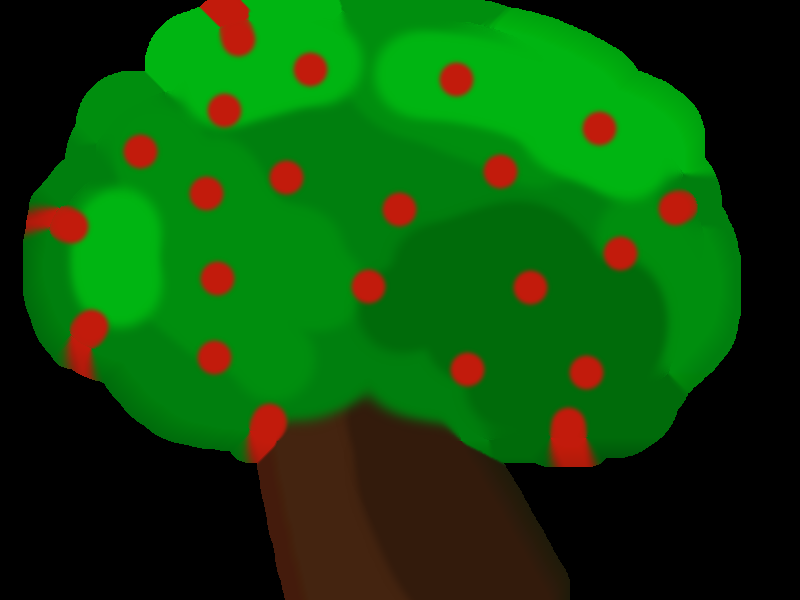
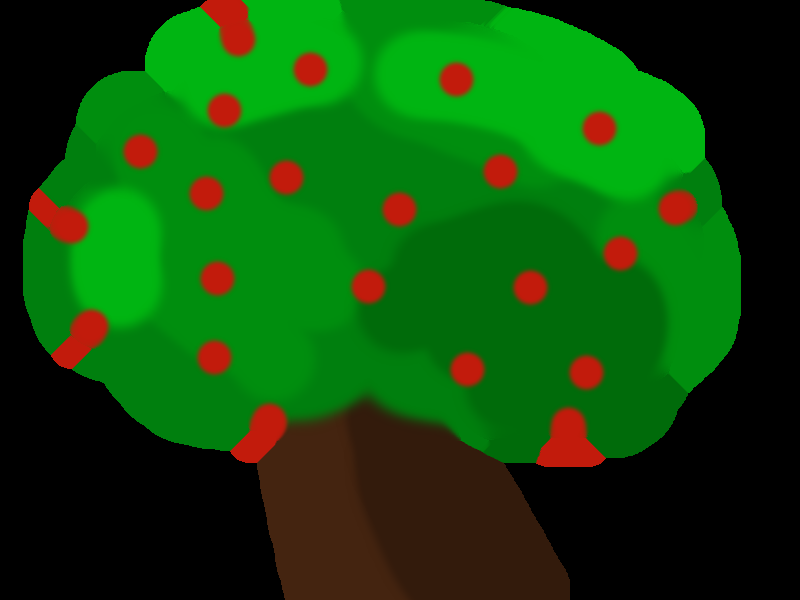
Fix neighbor sampling (#1)
* Fix neighbor sampling

* Fix images

* Use usize for thickness

diff --git a/src/alpha_bleed.rs b/src/alpha_bleed.rs
@@ -12,7 +12,7 @@ const NEIGHBOR_OFFSETS: [(i32, i32); 8] = [
     (1, 1),
 ];
 
-pub fn alpha_bleed(image: &mut RgbaImage, thickness: u32) {
+pub fn alpha_bleed(image: &mut RgbaImage, thickness: usize) {
     let (width, height) = image.dimensions();
 
     let mut visited = vec![false; (width * height) as usize];
@@ -61,13 +61,14 @@ pub fn alpha_bleed(image: &mut RgbaImage, thickness: u32) {
         }
     }
 
-    let mut loop_count: u32 = 0;
-    let mut cycle_length = pixel_queue.len();
-    loop {
-        loop_count += 1;
+    for _ in 0..thickness {
+        let queue_length = pixel_queue.len();
+        if queue_length == 0 {
+            break;
+        }
 
-        let mut next_cycle_length = 0;
-        for _ in 0..cycle_length {
+        let mut mutated_pixels: Vec<usize> = vec![0; queue_length];
+        for _ in 0..queue_length {
             if let Some((x, y)) = pixel_queue.pop_front() {
                 let flat_index = (y * width + x) as usize;
 
@@ -80,17 +81,14 @@ pub fn alpha_bleed(image: &mut RgbaImage, thickness: u32) {
                     if can_sample[flat_neighbor_index] {
                         let neighbor_pixel = image.get_pixel(x_neighbor, y_neighbor);
 
-                        if loop_count <= thickness {
-                            color.0 += neighbor_pixel[0] as u16;
-                            color.1 += neighbor_pixel[1] as u16;
-                            color.2 += neighbor_pixel[2] as u16;
+                        color.0 += neighbor_pixel[0] as u16;
+                        color.1 += neighbor_pixel[1] as u16;
+                        color.2 += neighbor_pixel[2] as u16;
 
-                            contributing += 1;
-                        }
+                        contributing += 1;
                     } else if !visited[flat_neighbor_index] {
                         visited[flat_neighbor_index] = true;
                         pixel_queue.push_back((x_neighbor, y_neighbor));
-                        next_cycle_length += 1;
                     }
                 }
 
@@ -103,15 +101,15 @@ pub fn alpha_bleed(image: &mut RgbaImage, thickness: u32) {
                 ]);
 
                 image.put_pixel(x, y, new_pixel);
-                can_sample[flat_index] = true;
+                mutated_pixels.push(flat_index);
             }
         }
 
-        if next_cycle_length == 0 {
-            break;
+        for _ in 0..queue_length {
+            if let Some(flat_index) = mutated_pixels.pop() {
+                can_sample[flat_index] = true;
+            }
         }
-
-        cycle_length = next_cycle_length;
     }
 }
 
